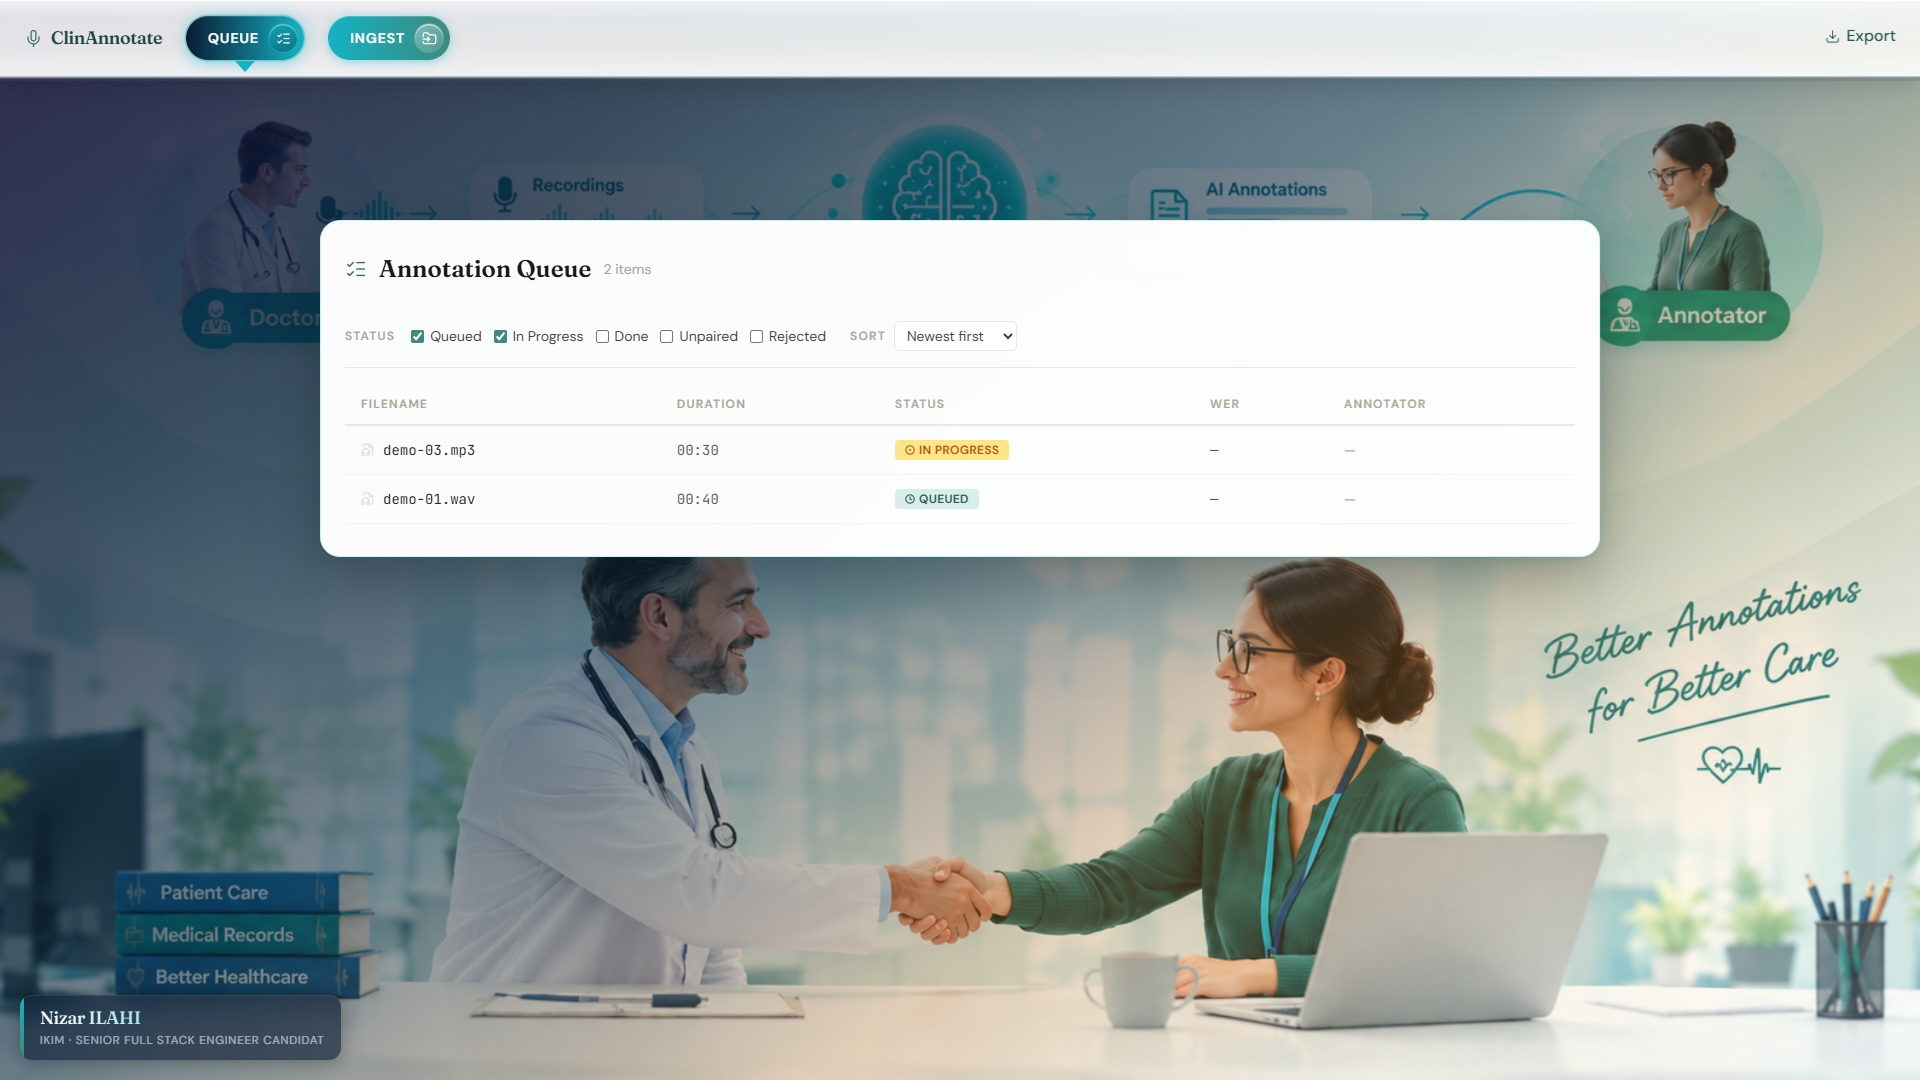
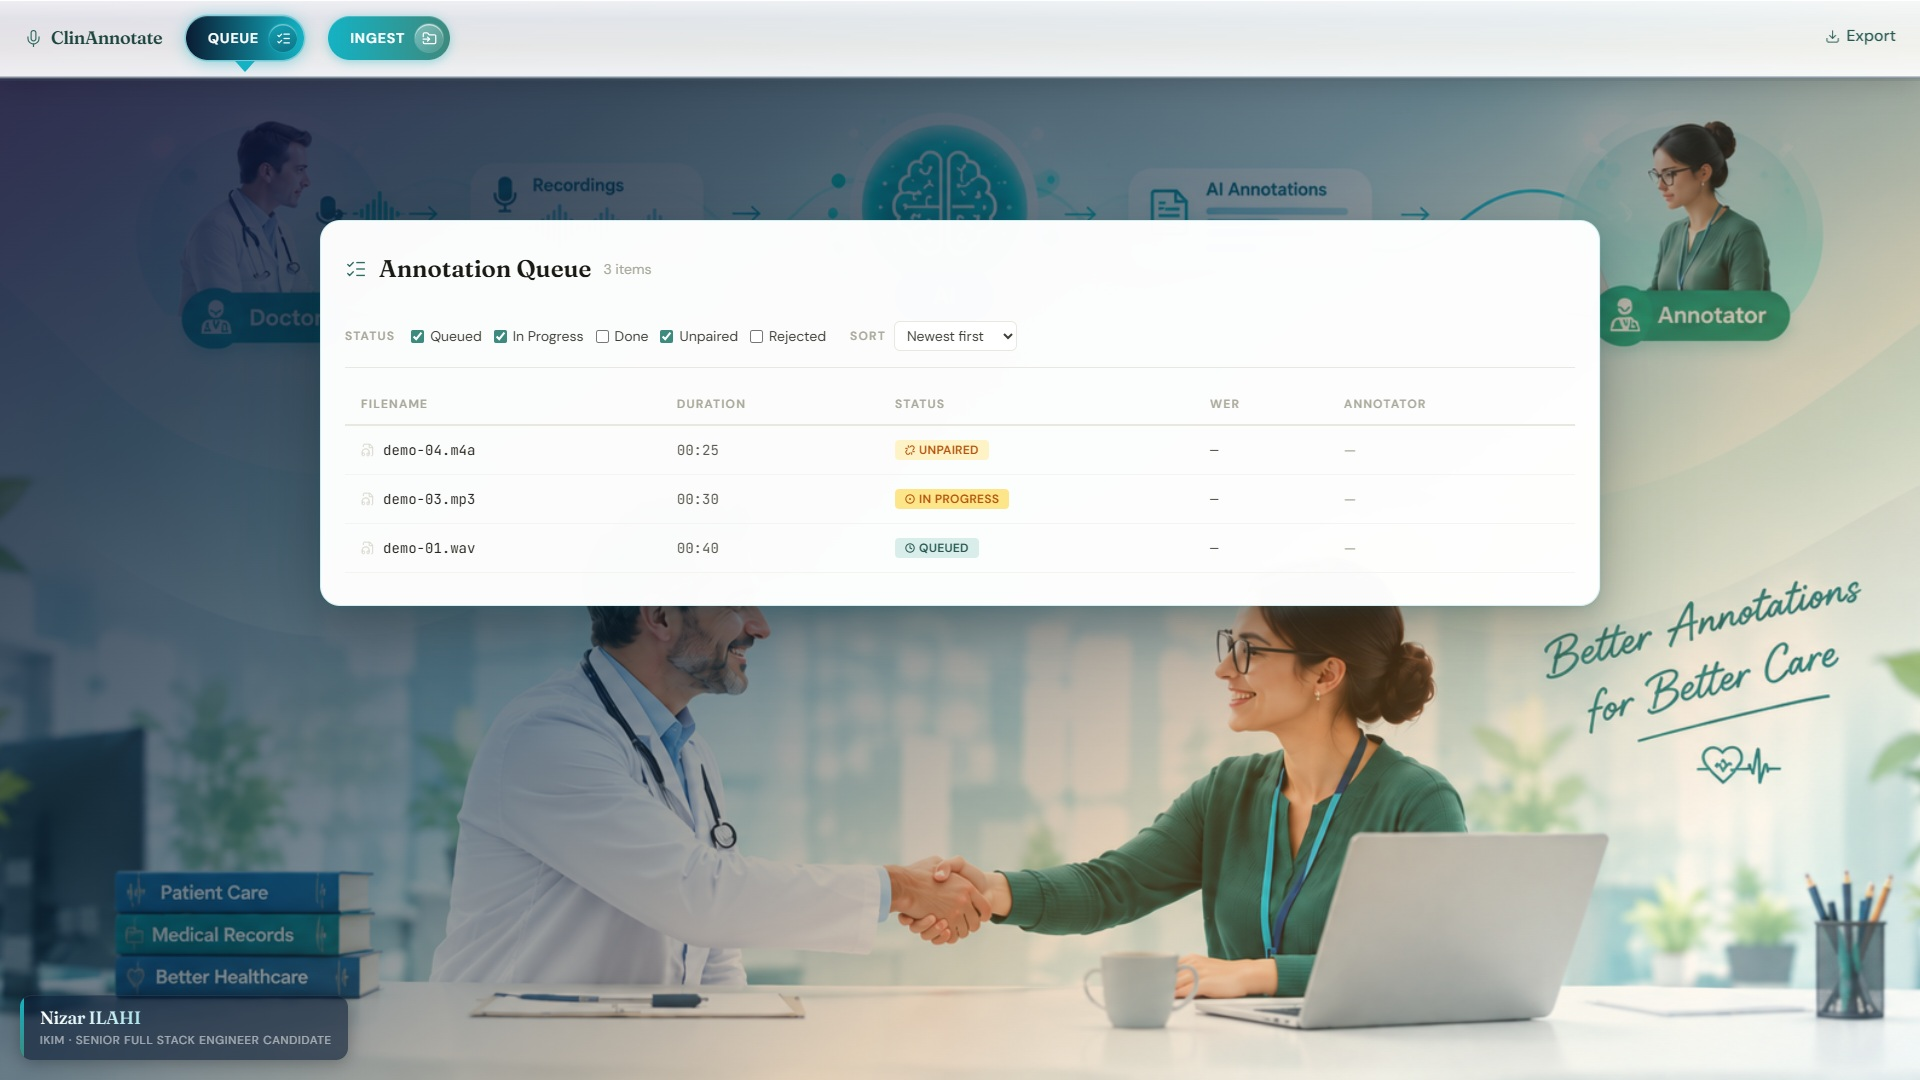
docs: last touch (typo fixing)

Changed region(s): [[0.1562, 0.3972, 0.8438, 0.5806], [0.1562, 0.9167, 0.1875, 0.9778]]

diff --git a/apps/web/src/App.vue b/apps/web/src/App.vue
@@ -55,7 +55,7 @@ import ExportButton from './features/export/components/ExportButton.vue';
           </p>
           <p class="font-sans text-white/55 m-0 mt-1 leading-tight"
              style="font-size: 0.72rem; letter-spacing: 0.07em; text-transform: uppercase;">
-            IKIM &middot; Senior Full Stack Engineer Candidat
+            IKIM &middot; Senior Full Stack Engineer Candidate
           </p>
         </div>
       </div>
